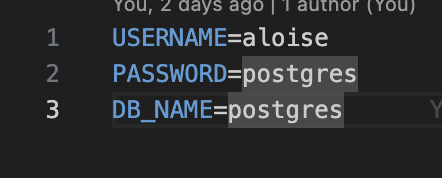
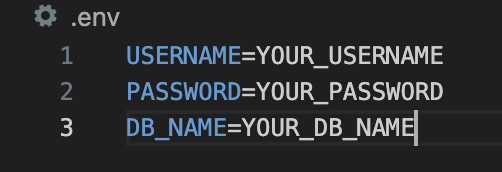
Updated readme

diff --git a/README.md b/README.md
@@ -1,3 +1,3 @@
-Для подключения к базе данных нужно создать ".env" файл и прописать там необходимые конфигурационные поля.
+Для подключения к базе данных нужно создать ".env" файл и прописать свои значения для конфигурационных полей.
 
 ![Database credentials](./assets/databaseCredentials.png?raw=true 'Database credentials')
